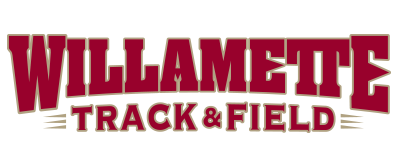
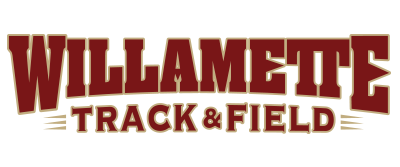
Willamette
Update Willamette Template with web cardinal

diff --git a/Willamette/style.css b/Willamette/style.css
@@ -8,7 +8,7 @@
 
 body {
 	margin: 0px;
-	background-color: #98002e;
+	background-color: #791716;
 	padding-top: 20px;
 	padding-bottom: 20px;
 }
@@ -25,24 +25,24 @@ body {
 */
 a {
 	text-decoration:none;
-	color: #98002e; 
+	color: #791716; 
 }
 
 a:hover{
 	text-decoration:underline;
-	color: #afa081;	
+	color: #c0ac7e;	
 }
 .boldCell{
 	font-weight:bold;	
 }
 .table>thead>tr>th{
-	background-color: #afa081;  
+	background-color: #c0ac7e;  
 	color: #fff;
 }
 .btn-primary
 {
 	color:#ffffff;
-	background-color:#afa081;
+	background-color:#c0ac7e;
 }
 .btn-primary:hover,.btn-primary:focus,.btn-primary:active,.btn-primary.active,.open .dropdown-toggle.btn-primary
 {
@@ -65,18 +65,18 @@ table {
 	padding: 5px 2px;
 	margin:0 2px 5px 0px;
 	text-align: center;
-	background-color: #afa081; 
+	background-color: #c0ac7e; 
 	color: #ffffff;
 }
 .eventLinks a:hover{
 	text-decoration:none;
-	background-color: #98002e; 
+	background-color: #791716; 
 	color: #ffffff;
 	background-image: url('bkgd.png');
 }
 .eventLinks h3 {
 	text-transform: uppercase;
-	color: #afa081; 
+	color: #c0ac7e; 
 	padding: 10px 0;
 	font-weight: normal;
     margin:10;
@@ -88,7 +88,7 @@ table {
 }
 .scheduleTitle {
 	font-size: 15px;
-	color: #afa081; 
+	color: #c0ac7e; 
 	font-weight: bold;
 }
 
@@ -150,7 +150,7 @@ table.hzTable {
 }
 #results div table:first-child td{
 	padding: 0 10px 0 10px;
-	border-left: 3px solid #afa081; 
+	border-left: 3px solid #c0ac7e; 
 
 }
 */
@@ -211,12 +211,12 @@ table.hzTable {
 	padding: 0;
 	font-size: 18px;
 	text-align: right;
-	color:#afa081;
+	color:#c0ac7e;
 }
 .header h5 {
 	margin: 0;
 	padding: 4px 0 10px 0;
-	color: #afa081;
+	color: #c0ac7e;
 	text-align: right;
 	font-size: 15px;
 	font-style: italic;
@@ -237,7 +237,7 @@ table.hzTable {
 .footer {
 	padding: 10px 0 0px 0;
 	color: #fff;
-	border-top: 1px solid #afa081; 
+	border-top: 1px solid #c0ac7e; 
 }
 .footer .icons{
 	text-align: right;
@@ -261,7 +261,7 @@ table.hzTable {
 */
 #recentResults {
     margin: 0 auto;
-    background-color: #afa081; 
+    background-color: #c0ac7e; 
     margin: 20px 0 10px 0;
     padding: 0 0 5px 0;
     color: #fff;
@@ -271,7 +271,7 @@ table.hzTable {
     font-size: 15px;
     font-weight: bold;
     text-align: left;
-    color: #98002e;
+    color: #791716;
     padding: 10px 10px 10px 10px;
     margin: 0 0 0 0;
     text-transform: uppercase;
@@ -285,14 +285,14 @@ table.hzTable {
     padding: 5px 1px 5px 10px;
 }
 #recentResults a.row0{
-    background-color: #a09173;
+    background-color: #a8956a;
 }
 #recentResults a:hover{
-    border-left: 10px solid #98002e; 
+    border-left: 10px solid #791716; 
     padding-left: 10px;
 }
 span.pipe{
-    color: #98002e; 
+    color: #791716; 
 }
 p.status{
 margin-left:10px;
@@ -339,7 +339,7 @@ margin-left:10px;
 	width: 100%;
 }
 #realtime p{
-	color: #98002e;
+	color: #791716;
 	font-size: 11px; 
 }
 
@@ -368,7 +368,7 @@ margin-left:10px;
 		display: none;
 	}
     #wu-links{
-        border-bottom:1px solid #afa081; 
+        border-bottom:1px solid #c0ac7e; 
         padding: 10px 0 10px 0;
     }
     
@@ -438,7 +438,7 @@ margin-left:10px;
 	}
 	#results h3{
 		font-size: 22px;
-		color: #afa081; 
+		color: #c0ac7e; 
 	}
 	.header h3 {
 		font-size: 24px;
